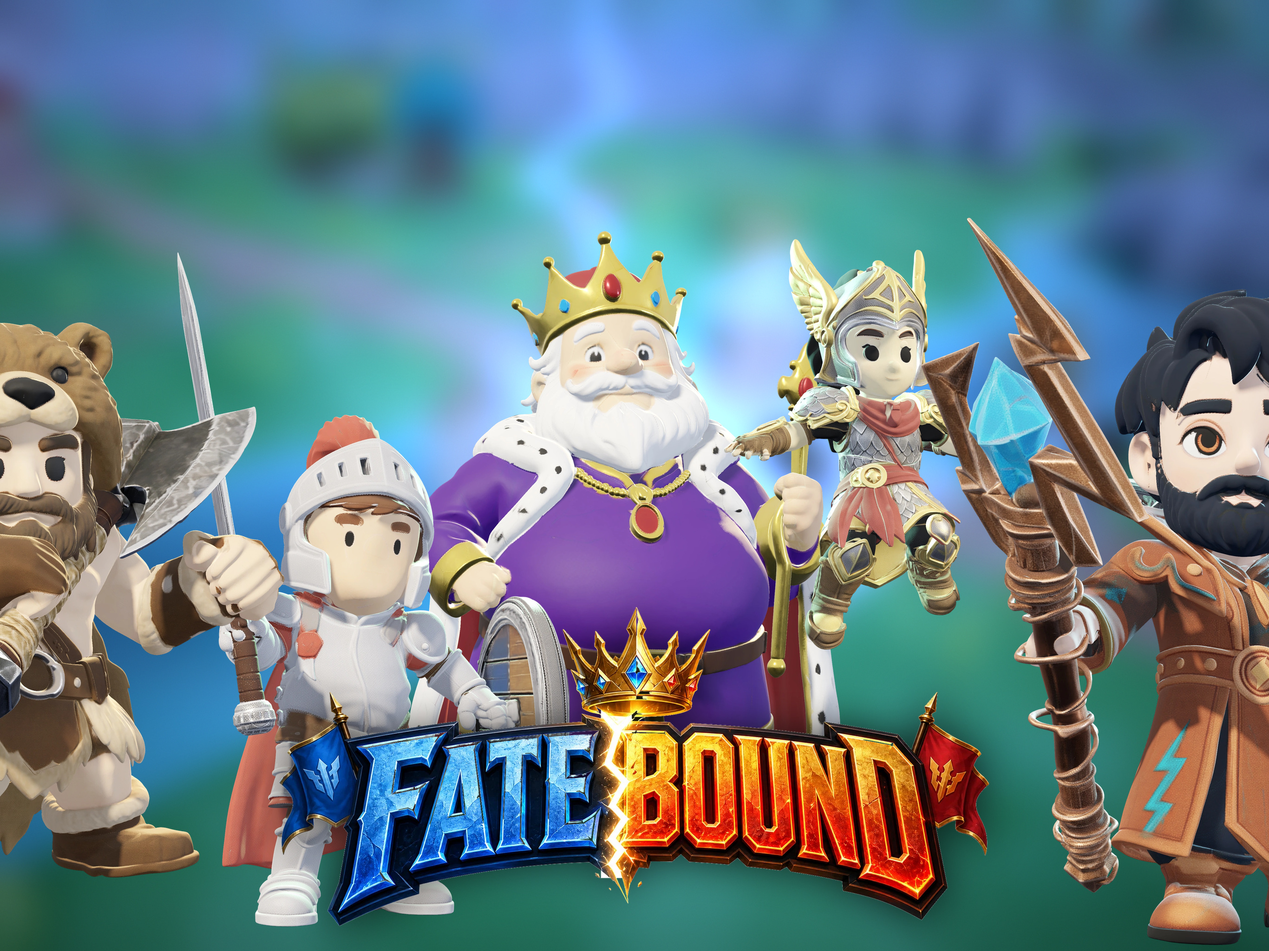
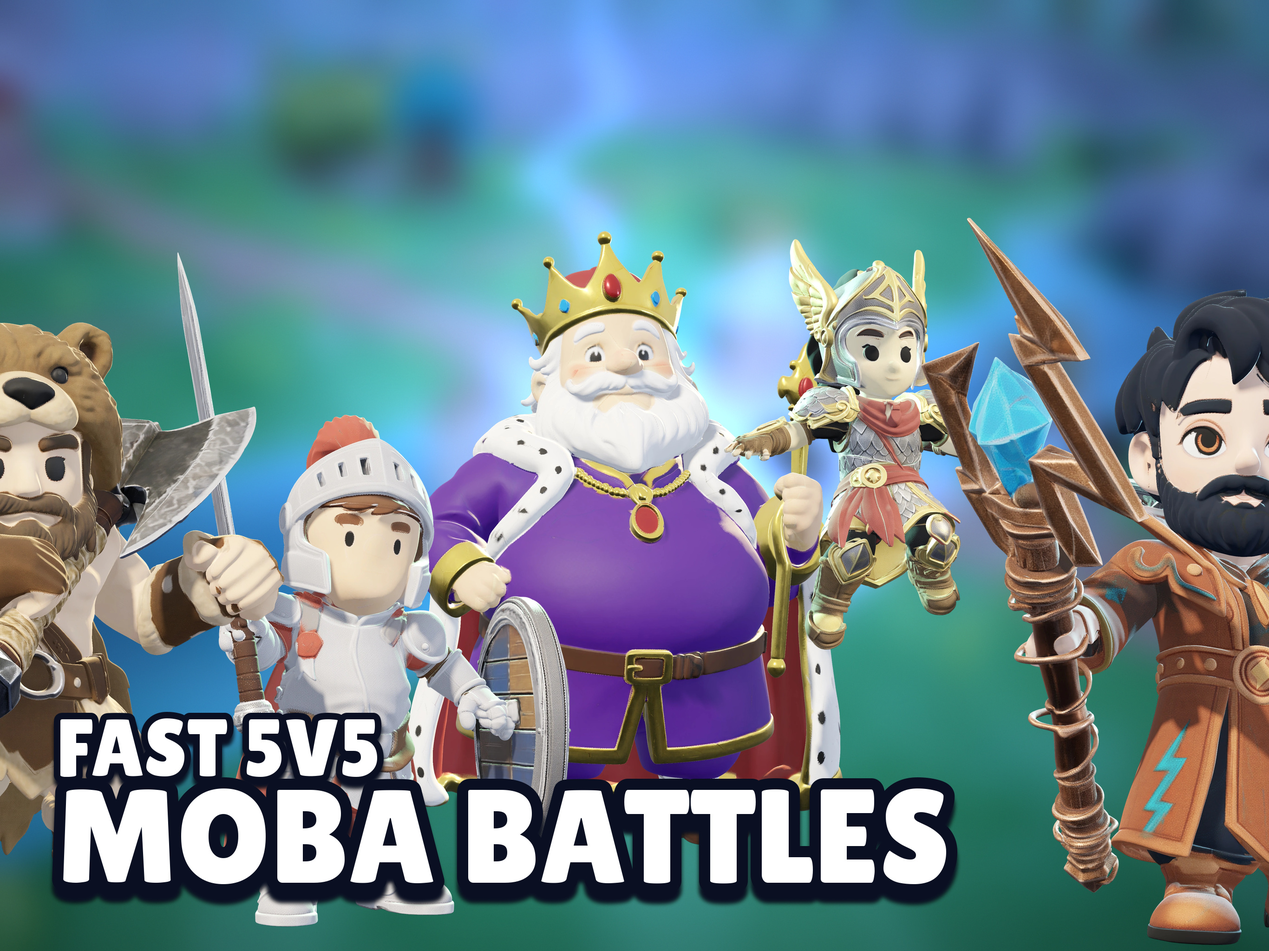
Listing: the heycatch.ai audit's fixes -- MOBA in the title, founder line, SUPPORT THE GAME section, a headline on screenshot 1
Claude-Session: https://claude.ai/code/session_01E7g828t3p5DgnGnspyvbqX

Changed region(s): [[0.0311, 0.625, 0.7778, 0.9688]]

diff --git a/godot/tools/store5_compose.py b/godot/tools/store5_compose.py
@@ -44,7 +44,7 @@ TARGETS = {"play": (2560, 1440), "iphone": (2868, 1320), "ipad": (2732, 2048)}
 #  SKIN_LINES Frostbound (18) = 36; clan: clans (camp, Clan Chest, Clan League); squad: social.gd PARTY_MAX 5.
 SHOTS = [
     {"key": "keyart", "raw": "", "bg": "feature", "tint": (40, 90, 200), "glow": (120, 190, 255), "confetti": False,
-     "lines": ("", ""), "logo": True,
+     "lines": ("FAST 5V5", "MOBA BATTLES"), "logo": False,
      "heroes": [["king", 1.085, 0.47, 1.08], ["dragoon", 1.47, 0.36, 0.95], ["knight", 0.74, 0.55, 1.05],
                 ["barbarian", 0.36, 0.57, 1.1], ["stormcaller", 1.8, 0.56, 1.12]]},
     {"key": "teamfight", "raw": "teamfight", "bg": "feature", "tint": (30, 90, 220), "glow": (130, 200, 255),

diff --git a/godot/store-listing/listing/STORE_LISTING.md b/godot/store-listing/listing/STORE_LISTING.md
@@ -1,15 +1,17 @@
-# Fatebound — Google Play and App Store listing (0.31.200, the 5v5)
+# Fatebound — Google Play and App Store listing (0.31.200, the 5v5; 0.31.212: the heycatch.ai listing audit's fixes)
 
 ## App name (max 30) — 27 characters
-Fatebound: 5v5 Hero Battles
+Fatebound: 5v5 MOBA Battles
 
-(The Play listing is still "Fatebound: Siege" until this is saved in the Play Console; the game itself is FATEBOUND.)
+(0.31.212, the audit's D1.1: the title carries the primary search keyword, MOBA. The game itself is FATEBOUND.)
 
 ## Short description (max 80) — 77 characters
 Fast 5v5 hero battles! Pick a champion, push the lanes and topple their King.
 
-## Full description (max 4000) — 2238 characters
+## Full description (max 4000) — 3186 characters
 Their King sits on a very comfortable chair. Knock him off it.
+
+Built by Kevin, solo developer at Vellic Games.
 
 Fatebound is a fast 5v5 hero battle game (a MOBA) made for your phone. Pick a champion, team up with four others, push down three lanes past the enemy towers and topple their King before they topple yours. Every match is a fresh fight of up to 20 minutes.
 
@@ -46,7 +48,14 @@ COLLECT AND CUSTOMIZE
 • 36 outfits: a set made for every champion with its own weapon, plus the Frostbound line
 • Win chests full of gold, gems and hero shards
 • Level up the Siege Pass, finish daily orders and champion quests, and win weekly leaderboard prizes
-• Outfits are cosmetic only
+
+SUPPORT THE GAME
+Fatebound is free to play. What's sold for real money is gems (packs from 80 gems), plus a one-time Starter Pack of 500 gems, 3,000 gold and a Hero Token. Gems buy:
+• Champions: 450 gems, or 25,000 gold won in matches (600 gems or 50,000 gold in a new champion's first two weeks)
+• Outfits: 750 gems for a champion's own set, or 390 gems for a Frostbound outfit (also sold for 40,000 gold). Featured outfits are discounted each week, and an outfit for a champion you don't have yet brings the champion with it
+• The Siege Pass premium track: 950 gems a season (4 weeks). It opens with a Hero Token for any locked champion, then adds chests, gems, gold and hero shards across 30 tiers. The free track is open to everyone
+• Skips for chest timers and Siege Pass tiers
+Nothing for sale makes a champion stronger in a match. Outfits are cosmetic only, and every champion can be won with gold you earn by playing.
 
 Your King is counting on you. He's also eating. Mostly eating.
 
@@ -68,8 +77,8 @@ Your King is counting on you. He's also eating. Mostly eating.
 | `app_store/iphone_6_9in/01_keyart.jpg` … `08_squad.jpg` | App Store iPhone 6.9" screenshots, in this order | 2868 × 1320 (landscape) |
 | `app_store/ipad_13in/01_keyart.jpg` … `08_squad.jpg` | App Store iPad 13" screenshots, in this order | 2732 × 2048 (landscape) |
 
-Headlines, in order (0.31.212, in Clash Royale's manner: a hero, a two-line headline, the game on a phone): the key art
-(the heroes and the title) · TEAM UP FOR 5V5 HERO BATTLES · PICK FROM 18 CHAMPIONS · PUSH THE LANES AND TOPPLE THEIR
+Headlines, in order (0.31.212, in Clash Royale's manner: a hero, a two-line headline, the game on a phone): FAST 5V5
+MOBA BATTLES (the heroes together, no phone; the audit's D3.1) · TEAM UP FOR 5V5 HERO BATTLES · PICK FROM 18 CHAMPIONS · PUSH THE LANES AND TOPPLE THEIR
 KING · SLAY THE GRAVE WYRM · DRESS UP IN 36 OUTFITS · BUILD YOUR CLAN · SQUAD UP WITH FRIENDS
 
 The game on each phone is a real render of build 0.31.199 (the HUD as it plays, or the game's own engine with a camera

diff --git a/godot/SIEGE_PROGRESS.md b/godot/SIEGE_PROGRESS.md
@@ -7060,3 +7060,22 @@ Kevin: "Now I want new higher quality app store screenshots. Here is the app sto
   the app in use: the key art has no phone -- if review objects, drop it from the App Store set.
 - Kevin: "Can you remove the confetti" -> off on every shot (store5_compose.py SHOTS "confetti": False; confetti() kept);
   all three sets rebuilt from the kept inputs.
+
+## 0.31.212 listing — the heycatch.ai listing audit's fixes (store text + screenshot 1; no app change)
+Kevin pasted the audit (Fatebound, early traction: launched 2026-10-21, 10+ installs, no ratings). Done from it:
+- Title (D1 12/20, findings D1.1 primary keyword in the title, D1.4 truncation): `Fatebound: 5v5 MOBA Battles` (27)
+  -- MOBA, the audience's search word, inside the first 19 characters. Short description untouched (the audit praises it).
+- Full description (D4 8/8, left as it was but for the action plan's two adds): "Built by Kevin, solo developer at Vellic
+  Games." after the opener (D5.6/D4.1); a SUPPORT THE GAME section (D8.2): free to play, gems the only thing sold
+  (packs from 80, the one-time Starter Pack), what gems buy with their prices from the code (champions 450 gems or 25,000
+  gold -- 600/50,000 in their first two weeks; outfits 750 gems, Frostbound 390 or 40,000 gold, weekly sales, an outfit
+  bringing its locked champion; the premium Siege Pass 950 gems a 4-week season, Hero Token at tier 1, 30 tiers;
+  skips), and "Nothing for sale makes a champion stronger in a match" -- checked: every gem sink in profile.gd (heroes,
+  outfits, sales, premium, tier and chest skips); no "no pay-to-win" (README rule 3). 2,238 -> 3,186 characters.
+  The "Outfits are cosmetic only" bullet moved into the new section.
+- Screenshot 1 (D3.1): the audit's own headline, FAST 5V5 / MOBA BATTLES, in the other seven's place and type, in place
+  of the title logo (store5_compose.py keyart), on all three sets and fastlane's copy.
+- fastlane title.txt and full_description.txt, STORE_LISTING.md, listing.json (name, description, lengths, screenshot 1)
+  and README_FOR_AI.md updated. Flagged for Kevin (not doable from here): the promo video (D3.5: 15-30 s landscape
+  gameplay on YouTube; trailer 10's ad cut is 74 s portrait), a developer website with a founder bio and photo (D5.6),
+  localized listings (D6.1), the off-store distribution plays (D5.3/D5.6), D2.2, D3.4, D5.4, D7.3, D8.4.

diff --git a/godot/store-listing/README_FOR_AI.md b/godot/store-listing/README_FOR_AI.md
@@ -51,16 +51,17 @@ branch `claude/siege-dev-r6-local`). The app icon is 0.31.211's (the King in fro
 | `tools/fonts/` | The game's fonts as TTF (Cinzel Black, Nunito ExtraBold) + their SIL OFL licenses |
 
 ## 2. The listing (en-US)
-- **App name** (≤30): `Fatebound: 5v5 Hero Battles` — 27 chars (the Play listing still says "Fatebound: Siege" until saved)
+- **App name** (≤30): `Fatebound: 5v5 MOBA Battles` — 27 chars (0.31.212: the heycatch.ai listing audit's D1.1 -- the primary keyword in the title)
 - **Short description** (≤80): 77 chars — see `listing/STORE_LISTING.md`
-- **Full description** (≤4000): 2,238 chars — see `listing/STORE_LISTING.md`
+- **Full description** (≤4000): 3,186 chars — see `listing/STORE_LISTING.md` (0.31.212: a founder line after the opener and a SUPPORT THE GAME section -- what's sold and what gems buy -- from the audit's action plan)
 - **App Store**: subtitle, promotional text and keywords — see `listing/STORE_LISTING.md` → App Store extras
 
-Screenshot headlines, in order (0.31.212; the same 8 on both stores): the key art (the heroes and the title) · TEAM UP FOR
+Screenshot headlines, in order (0.31.212; the same 8 on both stores): FAST 5V5 MOBA BATTLES (the heroes together, no phone) · TEAM UP FOR
 5V5 HERO BATTLES · PICK FROM 18 CHAMPIONS · PUSH THE LANES AND TOPPLE THEIR KING · SLAY THE GRAVE WYRM · DRESS UP IN
 36 OUTFITS · BUILD YOUR CLAN · SQUAD UP WITH FRIENDS (`listing/listing.json` → `phone_screenshots`,
 `app_store_screenshots`). Apple wants screenshots to show the app in use: if review objects to the key art (no phone),
-drop it from the App Store set -- the other seven all show the game.
+drop it from the App Store set -- the other seven all show the game. (The heycatch.ai audit's D3.1: it had no headline;
+since 0.31.212 it carries FAST 5V5 MOBA BATTLES in place of the title logo.)
 
 ## 3. Fill it in — Play Console (manual)
 1. Play Console → the app (**`com.fatebound.game`**) → **Grow users → Store presence → Main store listing**.
